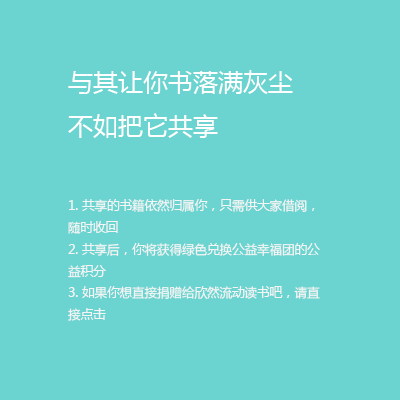
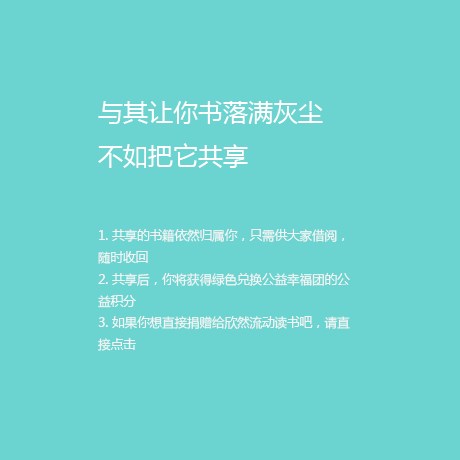
update

Changed region(s): [[0.15, 0.48, 0.81, 0.81], [0.18, 0.18, 0.75, 0.39]]

diff --git a/web/src/main/webapp/css/share.css b/web/src/main/webapp/css/share.css
@@ -1,72 +1,75 @@
-.xinran-desc{
-	height: 490px;
-	background: url(../img/share/desc.png);
+.xinran-desc {
+    height: 490px;
+    background: url(../img/share/desc.png) no-repeat 15px 15px;
 }
 
-
-
-
-.bookinfo-detail-root{
-	margin: 0;
-	padding: 20px;
-	width: auto;
-	text-align: center;
-}
-.bookinfo-detail-root .book-detail-main{
-	display: inline-block;
-	position: relative;
-	margin:0 auto;
-	text-align: left;
-	width: 100%;
-	padding: 10px 30px 20px 30px;
+.bookinfo-detail-root {
+    margin: 0;
+    padding: 20px;
+    width: auto;
+    text-align: center;
 }
 
-.book-detail-main .detail-title{
-	display: block;
-	position:static;
-	text-align: left;
-	width: auto;
-	padding: 10px;
-	font-size: 16px;
-	font-weight: 700;
-	color: #66cc00;
+.bookinfo-detail-root .book-detail-main {
+    display: inline-block;
+    position: relative;
+    margin: 0 auto;
+    text-align: left;
+    width: 100%;
+    padding: 10px 30px 20px 30px;
 }
 
-.book-detail-main .box-pic{
-	float: left;
-	display: inline-block;
-	height: 144px;
-	width: 102px;
-	margin: 5px 0 10px 10px;
-	margin-right: -100%;
-	border:1px solid #ddd;
-	padding: 1px;
-	overflow: hidden;
+.book-detail-main .detail-title {
+    display: block;
+    position: static;
+    text-align: left;
+    width: auto;
+    padding: 10px;
+    font-size: 16px;
+    font-weight: 700;
+    color: #66cc00;
 }
-.book-detail-main .box-pic img{
-	height: 142px;
-	width: 100px;
+
+.book-detail-main .box-pic {
+    float: left;
+    display: inline-block;
+    height: 144px;
+    width: 102px;
+    margin: 5px 0 10px 10px;
+    margin-right: -100%;
+    border: 1px solid #ddd;
+    padding: 1px;
+    overflow: hidden;
 }
-.book-detail-main .book-title{
-	font-size: 14px;
-	font-weight: 700;
+
+.book-detail-main .box-pic img {
+    height: 142px;
+    width: 100px;
 }
-.book-detail-main .box-info{
-	float: left;
-	display: inline-block;
-	width: 100%;
-	padding: 0 10px 10px 122px;
+
+.book-detail-main .book-title {
+    font-size: 14px;
+    font-weight: 700;
 }
-.book-detail-main .box-info h3{
-	color: #333;
-	font-size: 16px;
-	font-weight: 700;
-	margin: 10px 0 10px 45px;
-	padding: 0 0 10px 0;
+
+.book-detail-main .box-info {
+    float: left;
+    display: inline-block;
+    width: 100%;
+    padding: 0 10px 10px 122px;
 }
-.book-detail-main p{
-	margin: 0;
-	padding: 5px 0 0 0;
+
+.book-detail-main .box-info h3 {
+    color: #333;
+    font-size: 16px;
+    font-weight: 700;
+    margin: 10px 0 10px 45px;
+    padding: 0 0 10px 0;
+}
+
+.book-detail-main p {
+    margin: 0;
+    padding: 5px 0 0 0;
 }
 
 

diff --git a/web/src/main/webapp/css/common/common.css b/web/src/main/webapp/css/common/common.css
@@ -23,6 +23,7 @@ body{
 	background: #fff;
 	margin-bottom: 20px;
 	margin-top: 20px;
+    padding: 15px;
 }
 
 /*header*/
